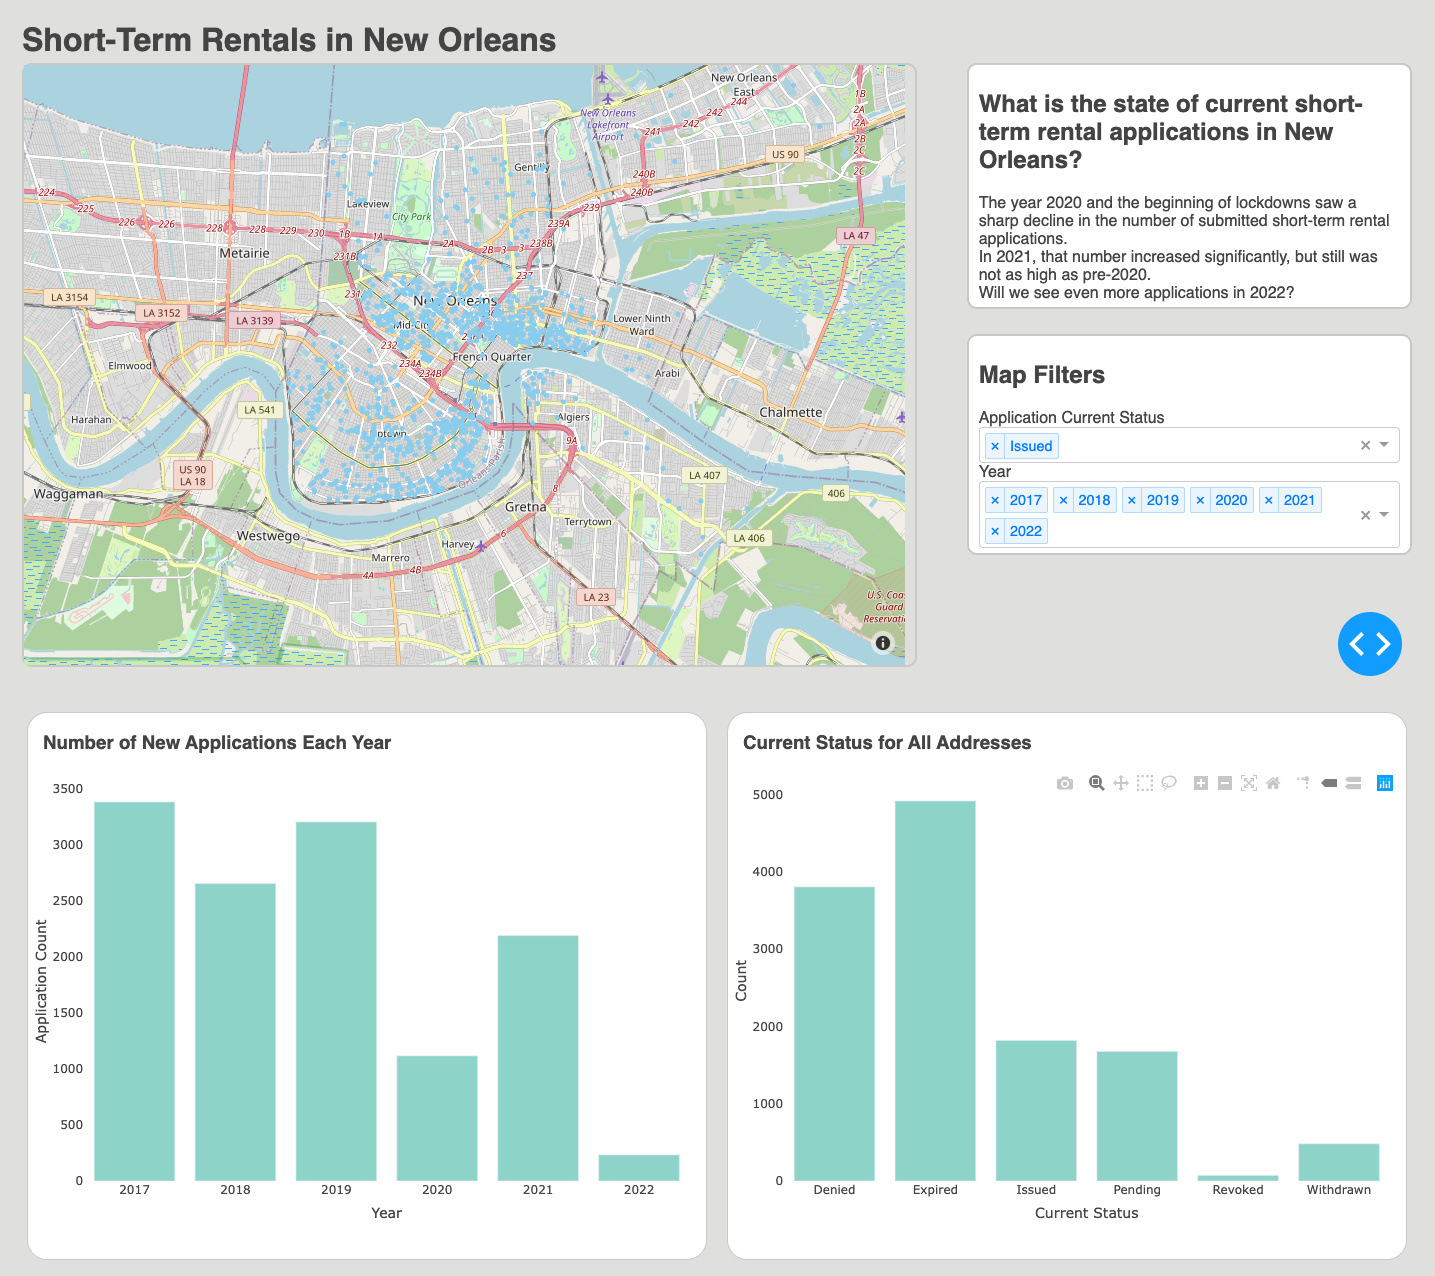
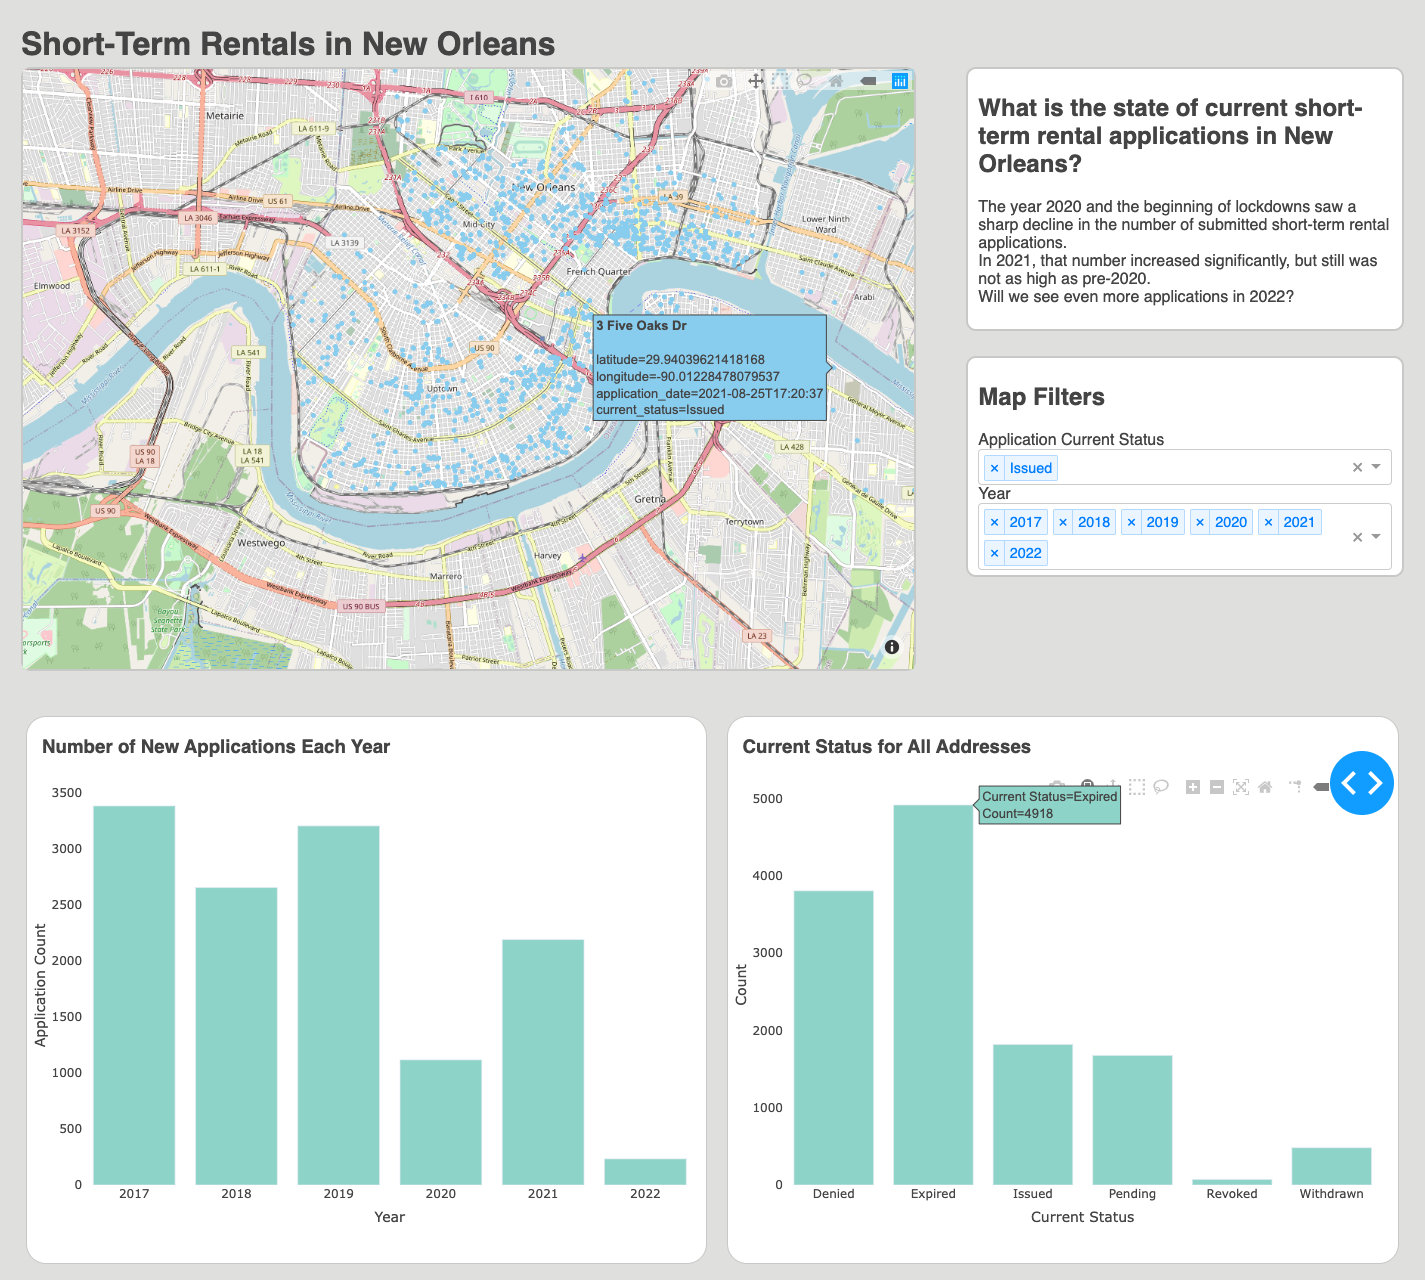
Fix screenshot issues, fix spacing issue

diff --git a/app.py b/app.py
@@ -90,7 +90,9 @@ app.layout = html.Div(children=[
                     html.Br(),
                     '''
                     Will we see even more applications in 2022?
-                    '''
+                    ''',
+                    html.Br(),
+                    html.Br()
                 ]),
             html.Div(
                 className="filter",
